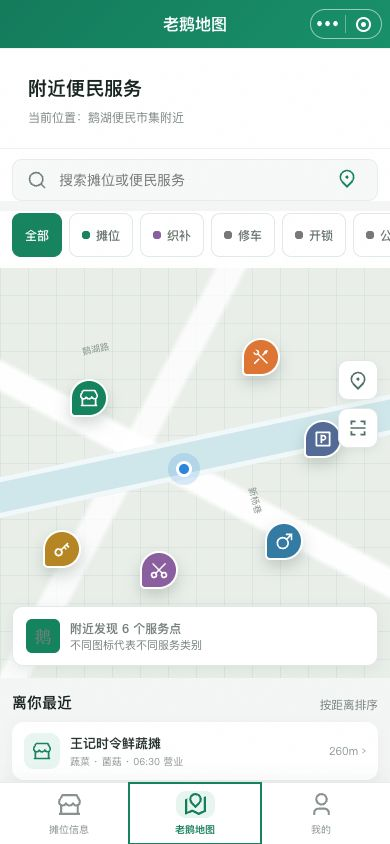
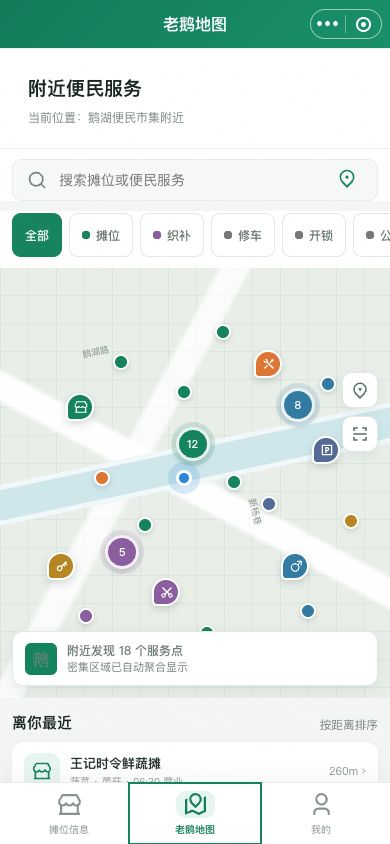
优化身份图标与密集地图点位

diff --git a/h5-prototype.html b/h5-prototype.html
@@ -32,6 +32,8 @@
     /* V0.4 其余页面视觉同步 */
     .map-head,.mine-head{background:#fff}.map-head .wechat-nav,.mine-head .wechat-nav{background:linear-gradient(135deg,#147b5b,#19906a)}.page-intro{padding:13px 14px 11px;border-color:#eef1ef}.page-intro h1{font-size:19px;color:var(--ink)}.page-intro p{color:#7d8882}.search{height:42px;margin:0 12px 10px;border:1px solid #e8ecea;border-radius:10px;background:#f7f9f8;color:#71807a}.locate{color:#16835f}.chips{gap:7px;padding:2px 12px 11px}.chip{height:32px;border-radius:9px;border-color:#e3e9e6;color:#65726c;font-weight:500}.chip.active{background:#16835f;border-color:#16835f;color:#fff}.map{height:410px;background-color:#e9eee9;background-image:linear-gradient(28deg,transparent 46%,rgba(255,255,255,.95) 47%,rgba(255,255,255,.95) 51%,transparent 52%),linear-gradient(118deg,transparent 35%,rgba(255,255,255,.78) 36%,rgba(255,255,255,.78) 40%,transparent 41%),linear-gradient(0deg,rgba(41,112,82,.07) 1px,transparent 1px),linear-gradient(90deg,rgba(41,112,82,.07) 1px,transparent 1px)}.river{background:#cfe7eb;border-color:rgba(255,255,255,.72)}.marker[data-type="stall"]{background:#16835f}.marker[data-type="repair"]{background:#dd7535}.marker[data-type="sewing"]{background:#8a5e9f}.marker[data-type="lock"]{background:#b78624}.marker[data-type="toilet"]{background:#347ba4}.marker[data-type="parking"]{background:#536b96}.my-location{background:#2d86dd;box-shadow:0 0 0 8px rgba(45,134,221,.18)}.map-tool{border-color:#e1e7e4;border-radius:10px;color:#537066;box-shadow:0 3px 10px rgba(38,72,57,.08)}.map-note{border:1px solid #e2e8e5;border-radius:11px;box-shadow:0 4px 14px rgba(30,66,50,.08)}.map-note .goose{background:#16835f}.map-list{background:var(--paper);padding-top:12px}.map-list .list-item{border:0;border-radius:12px;box-shadow:var(--shadow)}.nearby-title h2{color:var(--ink)}
     .identity-card{margin-top:12px;padding:17px;background:linear-gradient(135deg,#147b5b,#1a906b);border-radius:12px;box-shadow:0 6px 18px rgba(20,108,80,.15)}.identity-card .avatar{width:48px;height:48px;border-radius:50%;background:#fff3d9;color:#795a22}.identity-card h2{font-size:17px}.identity-card p{color:#d9eee6}.identity-card .primary,.identity-card .role-switch{border-radius:17px;color:#147b5b;font-weight:650}.service-heading{padding:15px 14px 8px;color:#53615b;font-size:13px}.menu-block,.guest-services{border:0;border-radius:12px;box-shadow:var(--shadow);background:#fff}.list-item{min-height:58px;border-color:#edf0ee}.list-icon{border-radius:10px;background:#e9f5f0;color:#16835f}.list-item strong{color:#26322d;font-size:13px}.list-item small{color:#88928d}.count{color:#8c9691}.work-grid{gap:8px;margin:0 12px;padding:12px 8px;background:#fff;border:0;border-radius:12px;box-shadow:var(--shadow)}.work-card,.work-card.accent{min-height:86px;padding:7px 2px;border:0;background:#fff;color:var(--ink)}.work-card .list-icon,.work-card.accent .list-icon{background:#e8f5f0;color:#16835f;border-radius:11px}.work-card.accent .list-icon{background:#16835f;color:#fff}.work-card strong{color:#36433d}.work-card b{background:#e45757;color:#fff}.primary{box-shadow:0 6px 15px rgba(22,131,95,.18)}
+    /* V0.5 高德式密集点位与身份图标校正 */
+    .role-option>.list-icon{display:grid;place-items:center;flex:0 0 36px;padding:0}.role-option>.list-icon .icon{display:block;margin:auto;width:20px;height:20px}.map{height:430px}.marker{width:28px;height:28px;border-width:2px;border-radius:50% 50% 50% 5px;box-shadow:0 3px 8px rgba(29,52,40,.18)}.marker .icon{width:14px;height:14px}.m1{left:17%;top:29%}.m2{left:65%;top:19%}.m3{left:72%;top:66%}.m4{left:39%;top:72%}.m5{left:80%;top:39%}.m6{left:12%;top:66%}.map-point{position:absolute;width:16px;height:16px;padding:0;border:2px solid #fff;border-radius:50%;box-shadow:0 2px 6px rgba(22,47,37,.2)}.map-point[data-type="stall"]{background:#16835f}.map-point[data-type="repair"]{background:#dd7535}.map-point[data-type="sewing"]{background:#8a5e9f}.map-point[data-type="lock"]{background:#b78624}.map-point[data-type="toilet"]{background:#347ba4}.map-point[data-type="parking"]{background:#536b96}.map-point.hidden{opacity:0;pointer-events:none;transform:scale(.6)}.p1{left:29%;top:20%}.p2{left:45%;top:27%}.p3{left:55%;top:13%}.p4{left:82%;top:25%}.p5{left:24%;top:47%}.p6{left:58%;top:48%}.p7{left:67%;top:53%}.p8{left:88%;top:57%}.p9{left:20%;top:79%}.p10{left:51%;top:83%}.p11{left:77%;top:78%}.p12{left:35%;top:58%}.map-cluster{position:absolute;width:34px;height:34px;padding:0;border:3px solid rgba(255,255,255,.9);border-radius:50%;background:#16835f;color:#fff;font-size:11px;font-weight:700;box-shadow:0 0 0 5px rgba(22,131,95,.15),0 3px 8px rgba(22,57,43,.2)}.c1{left:45%;top:37%}.c2{left:72%;top:28%;background:#347ba4;box-shadow:0 0 0 5px rgba(52,123,164,.14),0 3px 8px rgba(22,57,43,.2)}.c3{left:27%;top:62%;background:#8a5e9f;box-shadow:0 0 0 5px rgba(138,94,159,.13),0 3px 8px rgba(22,57,43,.2)}.map-note{padding:10px 12px}.map-note .goose{width:32px!important;height:32px!important}.map-tools{top:104px}.map-tool{width:36px;height:36px}.map-tool .icon{width:18px;height:18px}
     @media(min-width:431px){body{padding:20px 0}.app{min-height:calc(100dvh - 40px);border-radius:0}.bottom-nav{bottom:20px;border-radius:0}.sheet{border-radius:10px 10px 0 0;margin-bottom:20px}}
     @media(prefers-reduced-motion:reduce){*,*:before,*:after{animation:none!important;transition:none!important}}
   </style>
@@ -72,7 +74,7 @@
   <section class="screen" id="map-screen" aria-label="老鹅地图">
     <header class="map-head"><div class="wechat-nav"><span class="nav-placeholder"></span><strong>老鹅地图</strong><span class="wechat-capsule" aria-label="微信页面操作"><span>•••</span><i></i></span></div><div class="page-intro"><h1>附近便民服务</h1><p>当前位置：鹅湖便民市集附近</p></div><label class="search"><svg class="icon"><use href="assets/remixicon.symbol.svg#ri-search-line"/></svg><input id="map-search" placeholder="搜索摊位或便民服务"><button class="locate" aria-label="重新定位" data-toast="已定位到鹅湖便民市集"><svg class="icon"><use href="assets/remixicon.symbol.svg#ri-map-pin-2-line"/></svg></button></label></header>
     <div class="chips" id="chips"><button class="chip active" data-filter="all">全部</button><button class="chip" data-filter="stall"><i class="mini-dot" style="color:var(--green)"></i>摊位</button><button class="chip" data-filter="sewing"><i class="mini-dot" style="color:#8a5e9f"></i>织补</button><button class="chip" data-filter="repair"><i class="mini-dot" style="color:var(--orange)"></i>修车</button><button class="chip" data-filter="lock"><i class="mini-dot" style="color:var(--yellow)"></i>开锁</button><button class="chip" data-filter="toilet"><i class="mini-dot" style="color:var(--blue)"></i>公厕</button><button class="chip" data-filter="parking"><i class="mini-dot" style="color:#4d6490"></i>停车</button></div>
-    <div class="map"><div class="river"></div><span class="road-name" style="left:21%;top:18%">鹅湖路</span><span class="road-name" style="left:62%;top:55%;transform:rotate(75deg)">新杨巷</span><button class="marker m1" data-type="stall" data-toast="王记时令鲜蔬摊 · 260 米"><svg class="icon"><use href="assets/remixicon.symbol.svg#ri-store-2-line"/></svg></button><button class="marker m2" data-type="repair" data-toast="老周修车铺 · 420 米"><svg class="icon"><use href="assets/remixicon.symbol.svg#ri-tools-line"/></svg></button><button class="marker m3" data-type="toilet" data-toast="鹅湖市集公共卫生间 · 580 米"><svg class="icon"><use href="assets/remixicon.symbol.svg#ri-men-line"/></svg></button><button class="marker m4" data-type="sewing" data-toast="巧手织补 · 650 米"><svg class="icon"><use href="assets/remixicon.symbol.svg#ri-scissors-2-line"/></svg></button><button class="marker m5" data-type="parking" data-toast="市集东停车点 · 320 米"><svg class="icon"><use href="assets/remixicon.symbol.svg#ri-parking-box-line"/></svg></button><button class="marker m6" data-type="lock" data-toast="安信开锁 · 730 米"><svg class="icon"><use href="assets/remixicon.symbol.svg#ri-key-2-line"/></svg></button><i class="my-location"></i><div class="map-tools"><button class="map-tool" aria-label="回到当前位置" data-toast="已回到当前位置"><svg class="icon"><use href="assets/remixicon.symbol.svg#ri-map-pin-2-line"/></svg></button><button class="map-tool" aria-label="重新扫码" data-toast="扫码查找摊位演示"><svg class="icon"><use href="assets/remixicon.symbol.svg#ri-qr-scan-2-line"/></svg></button></div><div class="map-note"><span class="goose" style="width:34px;height:34px;font-size:17px">鹅</span><span><strong id="map-result">附近发现 6 个服务点</strong><span>不同图标代表不同服务类别</span></span></div></div>
+    <div class="map"><div class="river"></div><span class="road-name" style="left:21%;top:18%">鹅湖路</span><span class="road-name" style="left:62%;top:55%;transform:rotate(75deg)">新杨巷</span><button class="marker m1" data-type="stall" data-toast="王记时令鲜蔬摊 · 260 米"><svg class="icon"><use href="assets/remixicon.symbol.svg#ri-store-2-line"/></svg></button><button class="marker m2" data-type="repair" data-toast="老周修车铺 · 420 米"><svg class="icon"><use href="assets/remixicon.symbol.svg#ri-tools-line"/></svg></button><button class="marker m3" data-type="toilet" data-toast="鹅湖市集公共卫生间 · 580 米"><svg class="icon"><use href="assets/remixicon.symbol.svg#ri-men-line"/></svg></button><button class="marker m4" data-type="sewing" data-toast="巧手织补 · 650 米"><svg class="icon"><use href="assets/remixicon.symbol.svg#ri-scissors-2-line"/></svg></button><button class="marker m5" data-type="parking" data-toast="市集东停车点 · 320 米"><svg class="icon"><use href="assets/remixicon.symbol.svg#ri-parking-box-line"/></svg></button><button class="marker m6" data-type="lock" data-toast="安信开锁 · 730 米"><svg class="icon"><use href="assets/remixicon.symbol.svg#ri-key-2-line"/></svg></button><button class="map-point p1" data-type="stall" data-toast="阿德早点摊 · 310 米" aria-label="阿德早点摊"></button><button class="map-point p2" data-type="stall" data-toast="张记熟食摊 · 360 米" aria-label="张记熟食摊"></button><button class="map-point p3" data-type="stall" data-toast="便民水果摊 · 390 米" aria-label="便民水果摊"></button><button class="map-point p4" data-type="toilet" data-toast="平山乡公共卫生间 · 610 米" aria-label="公共卫生间"></button><button class="map-point p5" data-type="repair" data-toast="小吴修车点 · 520 米" aria-label="修车点"></button><button class="map-point p6" data-type="stall" data-toast="陈记豆制品 · 450 米" aria-label="陈记豆制品"></button><button class="map-point p7" data-type="parking" data-toast="市集西停车点 · 480 米" aria-label="停车点"></button><button class="map-point p8" data-type="lock" data-toast="便民开锁 · 840 米" aria-label="开锁点"></button><button class="map-point p9" data-type="sewing" data-toast="芳姐织补 · 780 米" aria-label="织补点"></button><button class="map-point p10" data-type="stall" data-toast="老鹅小吃摊 · 690 米" aria-label="老鹅小吃摊"></button><button class="map-point p11" data-type="toilet" data-toast="东停车场公厕 · 920 米" aria-label="公共卫生间"></button><button class="map-point p12" data-type="stall" data-toast="惠民粮油摊 · 570 米" aria-label="惠民粮油摊"></button><button class="map-cluster c1" data-toast="该区域有 12 个摊位" aria-label="12个点位聚合">12</button><button class="map-cluster c2" data-toast="该区域有 8 个便民服务" aria-label="8个点位聚合">8</button><button class="map-cluster c3" data-toast="该区域有 5 个服务点" aria-label="5个点位聚合">5</button><i class="my-location"></i><div class="map-tools"><button class="map-tool" aria-label="回到当前位置" data-toast="已回到当前位置"><svg class="icon"><use href="assets/remixicon.symbol.svg#ri-map-pin-2-line"/></svg></button><button class="map-tool" aria-label="重新扫码" data-toast="扫码查找摊位演示"><svg class="icon"><use href="assets/remixicon.symbol.svg#ri-qr-scan-2-line"/></svg></button></div><div class="map-note"><span class="goose" style="width:34px;height:34px;font-size:17px">鹅</span><span><strong id="map-result">附近发现 18 个服务点</strong><span>密集区域已自动聚合显示</span></span></div></div>
     <div class="map-list"><div class="nearby-title"><h2>离你最近</h2><small>按距离排序</small></div><button class="list-item" data-tab="stall-screen"><span class="list-icon"><svg class="icon"><use href="assets/remixicon.symbol.svg#ri-store-2-line"/></svg></span><span><strong>王记时令鲜蔬摊</strong><small>蔬菜 · 菌菇 · 06:30 营业</small></span><span class="count">260m ›</span></button></div>
   </section>
 
@@ -97,7 +99,7 @@
   function go(id){$$('.screen').forEach(x=>x.classList.toggle('active',x.id===id));$$('.nav-btn').forEach(x=>x.classList.toggle('active',x.dataset.tab===id));window.scrollTo({top:0,behavior:'smooth'})}
   $$('[data-tab]').forEach(x=>x.addEventListener('click',()=>go(x.dataset.tab)));$$('[data-toast]').forEach(x=>x.addEventListener('click',()=>toast(x.dataset.toast)));
   $('#favorite').onclick=()=>{if(!logged){go('mine-screen');toast('登录后即可收藏，已为你保留当前摊位')}else toast('已收藏王记时令鲜蔬摊')};
-  $$('#chips .chip').forEach(chip=>chip.onclick=()=>{const type=chip.dataset.filter;$$('#chips .chip').forEach(x=>x.classList.remove('active'));chip.classList.add('active');let n=0;$$('.marker').forEach(m=>{const show=type==='all'||m.dataset.type===type;m.classList.toggle('hidden',!show);if(show)n++});$('#map-result').textContent=`附近发现 ${n} 个${type==='all'?'服务点':'相关点位'}`});
+  $$('#chips .chip').forEach(chip=>chip.onclick=()=>{const type=chip.dataset.filter;$$('#chips .chip').forEach(x=>x.classList.remove('active'));chip.classList.add('active');let n=0;$$('.marker,.map-point').forEach(m=>{const show=type==='all'||m.dataset.type===type;m.classList.toggle('hidden',!show);if(show)n++});$$('.map-cluster').forEach(x=>x.classList.toggle('hide',type!=='all'));$('#map-result').textContent=`附近发现 ${n} 个${type==='all'?'服务点':'相关点位'}`});
   $('#map-search').addEventListener('keydown',e=>{if(e.key==='Enter'){toast(e.target.value?`正在搜索“${e.target.value}”`:'请输入搜索内容');e.target.blur()}});
   function openRole(){selectedRole=currentRole;$$('.role-option').forEach(x=>x.classList.toggle('active',x.dataset.role===selectedRole));$('#role-sheet').classList.add('open')}
   $('#login-btn').onclick=openRole;$('#switch-role').onclick=openRole;$$('.role-option').forEach(x=>x.onclick=()=>{selectedRole=x.dataset.role;$$('.role-option').forEach(y=>y.classList.toggle('active',y===x))});
